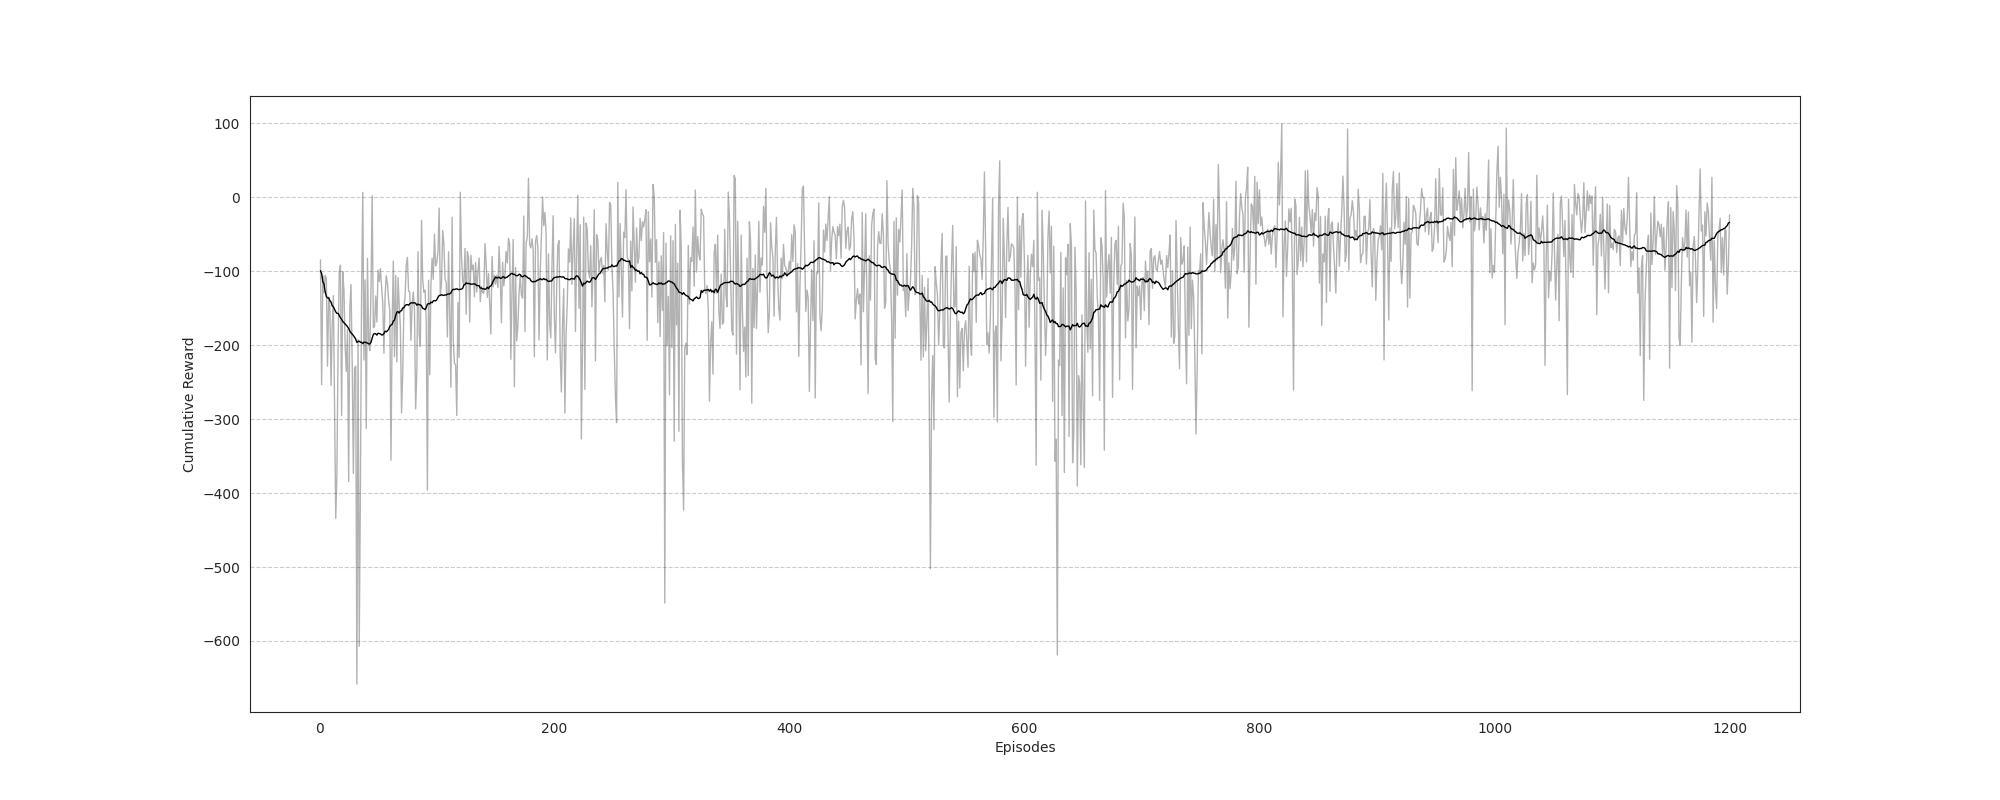
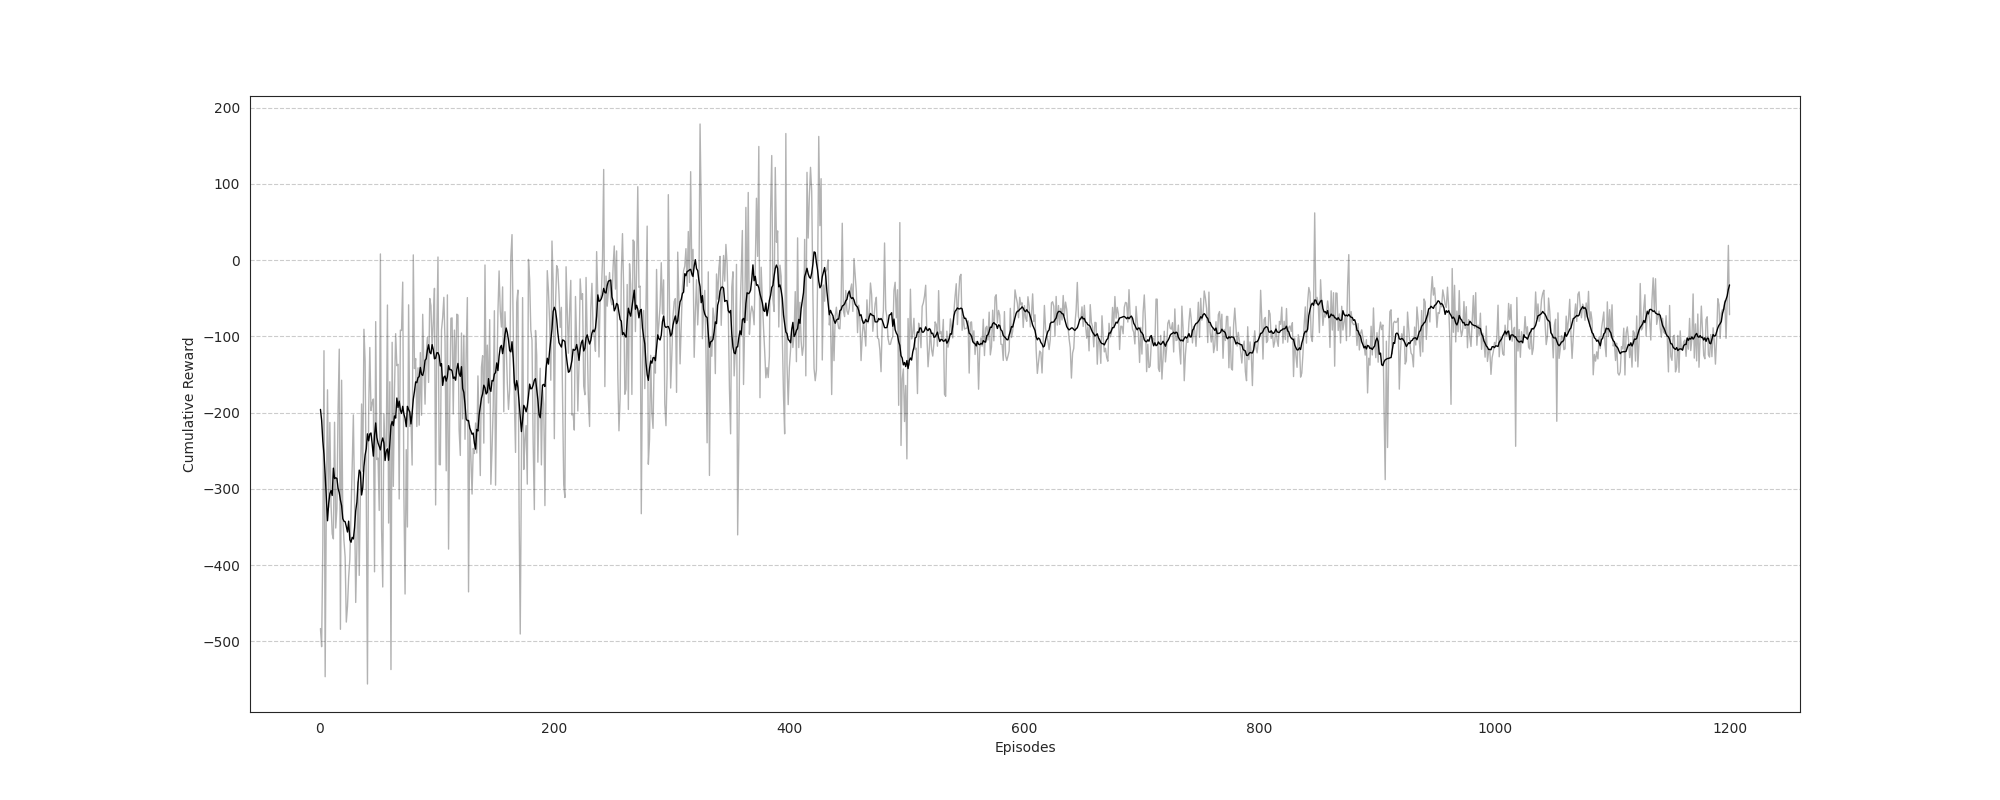
Improve A2C

diff --git a/xenon_crow/baselines/a2c.py b/xenon_crow/baselines/a2c.py
@@ -91,11 +91,13 @@ class A2CAgent(Module):
         output_dim,
         learning_rate=3e-4,
         gamma=0.99,
+        critic_loss_mult=0.8,
         buffer=None,
         format="conv",
     ):
         super(A2CAgent, self).__init__()
         self.gamma = gamma
+        self.crt_mult = critic_loss_mult
         self.replay_buffer = buffer
         self._eps = torch.finfo(torch.float32).eps
         model_class = ConvActorCritic if format == "conv" else MplActorCritic
@@ -109,8 +111,8 @@ class A2CAgent(Module):
         action_pool = Categorical(probs)
         action = action_pool.sample()
         log_prob = action_pool.log_prob(action)
-        entropy = action_pool.entropy.mean()
-        
+        entropy = action_pool.entropy().sum()
+        # entropy = -(torch.mean(probs) * torch.log(probs)).sum()
         return action.item(), log_prob, entropy, value
 
     def __compute_returns(self, rewards):
@@ -135,8 +137,8 @@ class A2CAgent(Module):
             critic_loss.append(adv**2)
             actor_loss.append(-log_prob * adv)
 
-        actor_loss = torch.cat(actor_loss).mean()
-        critic_loss = 0.5 * torch.cat(critic_loss).mean()
+        actor_loss = torch.cat(actor_loss).sum()
+        critic_loss = self.crt_mult * torch.cat(critic_loss).sum()
 
         return actor_loss + critic_loss + 0.001 * entropy
 

diff --git a/gym_tests/a2c_gym.py b/gym_tests/a2c_gym.py
@@ -21,8 +21,8 @@ manual_seed(seed)
 
 MAX_EP = 1200
 
-GAMMA = 0.99
-LR = 5e-3
+GAMMA = 0.9
+LR = 1e-4
 
 replay_buffer = ReinforceBuffer(
     data_handler=GymDataHandlerReinforce()
@@ -32,6 +32,7 @@ agent = A2CAgent(
     output_dim=ENV.action_space.n,
     learning_rate=LR,
     gamma=GAMMA,
+    critic_loss_mult=0.85,
     buffer=replay_buffer,
     format="mlp",
 )
